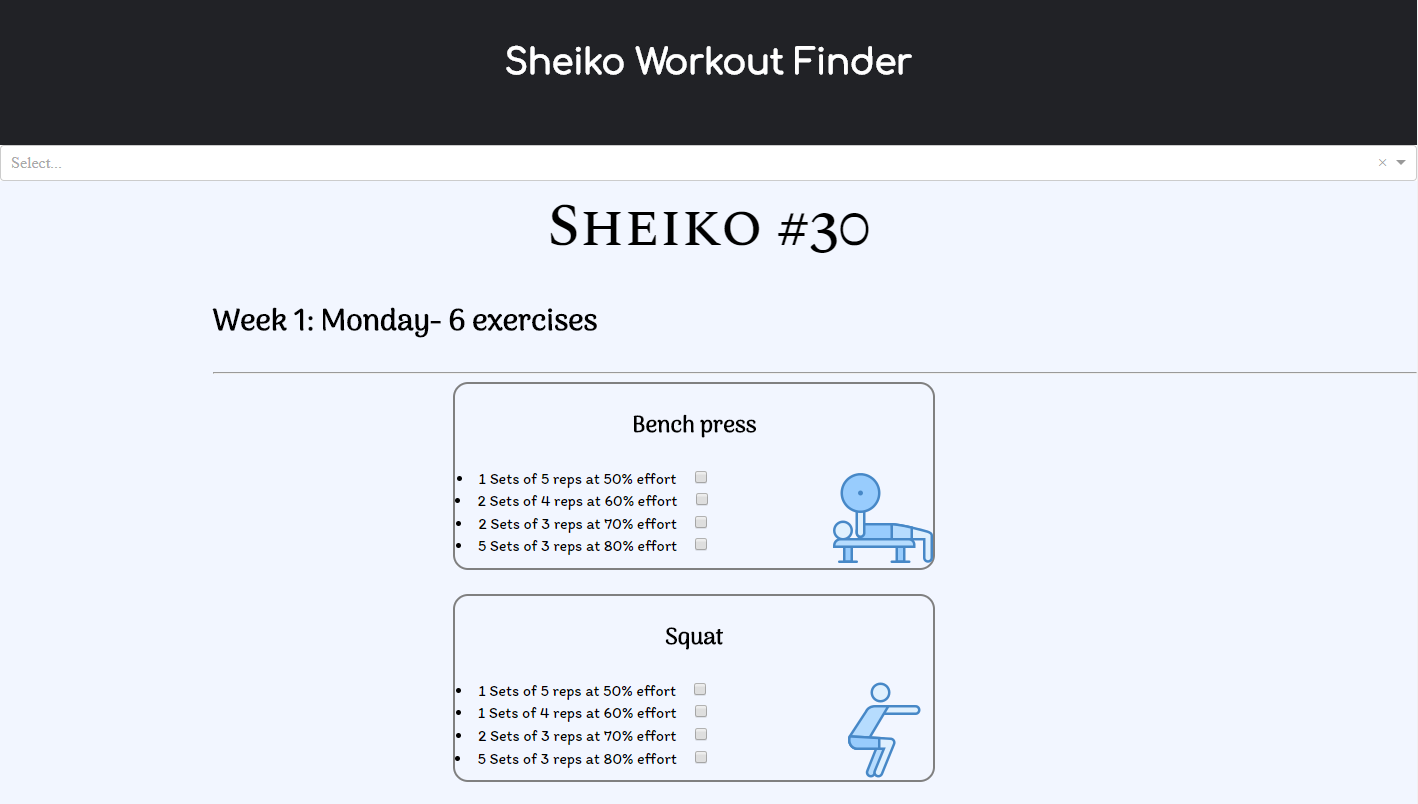
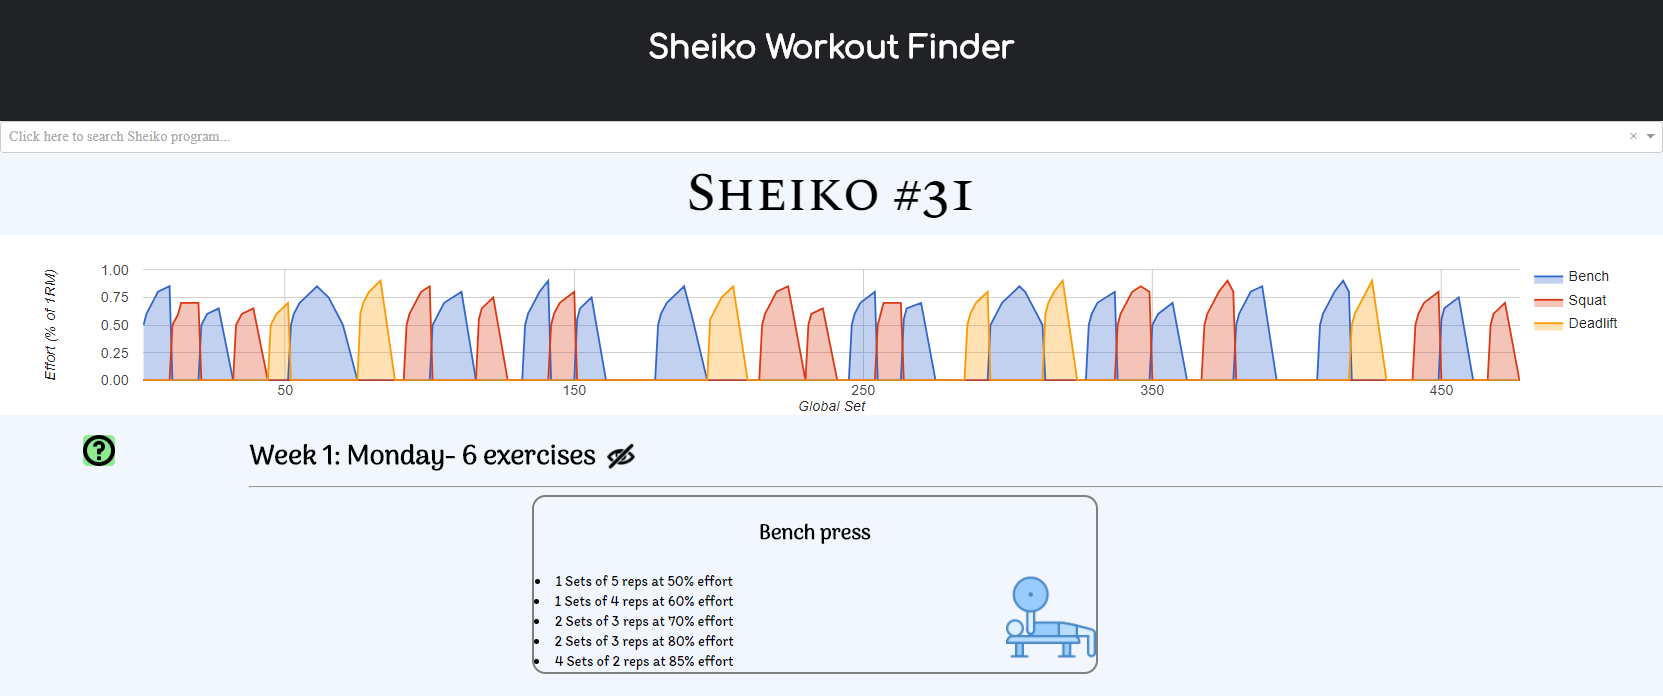
Updated readme with info on new chart functionality

diff --git a/README.md b/README.md
@@ -17,7 +17,12 @@ Below is an example of the first question of the three-question survey.
 
 ![](survey-example.png)
 
-The exercises are displayed as a chronologically exhaustive list, delimited by the day on which they should be performed.
+A search bar is provided to search any program contained within the Sheiko program suite.
+Directly underneath, a chart overview of the selected program is displayed.
+The horizontal axis represents the collective sets of all exercises.
+The vertical axis represents the effort exerted with respect to the exercise performed.
+
+Beneath, the exercises are displayed as a chronologically exhaustive list, delimited by the day on which they should be performed.
 Every exercise is contained within a rounded box which displays a bulleted list of every set and repetition that should be performed with a specified effort as the percentage of a one-rep-max.
 Furthermore, a picture of the exercise is displayed on the right of the bulleted list is used to complement it.
 Clicking on an exercise, will have it slide to the left, giving space to Google Analytics, which will be used as an aid in the visualization of the data.
